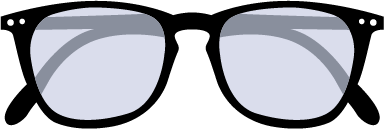
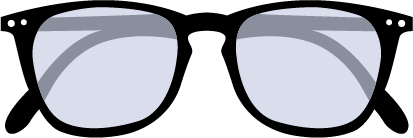
8

diff --git a/css/styles.css b/css/styles.css
@@ -269,12 +269,14 @@ header .header-back:active {
     align-items: center;
     justify-content: center;
     background: #fff;
+    overflow: hidden; 
 }
 
 .category-icon img {
     display: block;
-    width: auto;
-    height: 30%;
+    max-width: 80%; 
+    max-height: 60%; 
+    object-fit: contain;     
 }
 
 .category-label {
